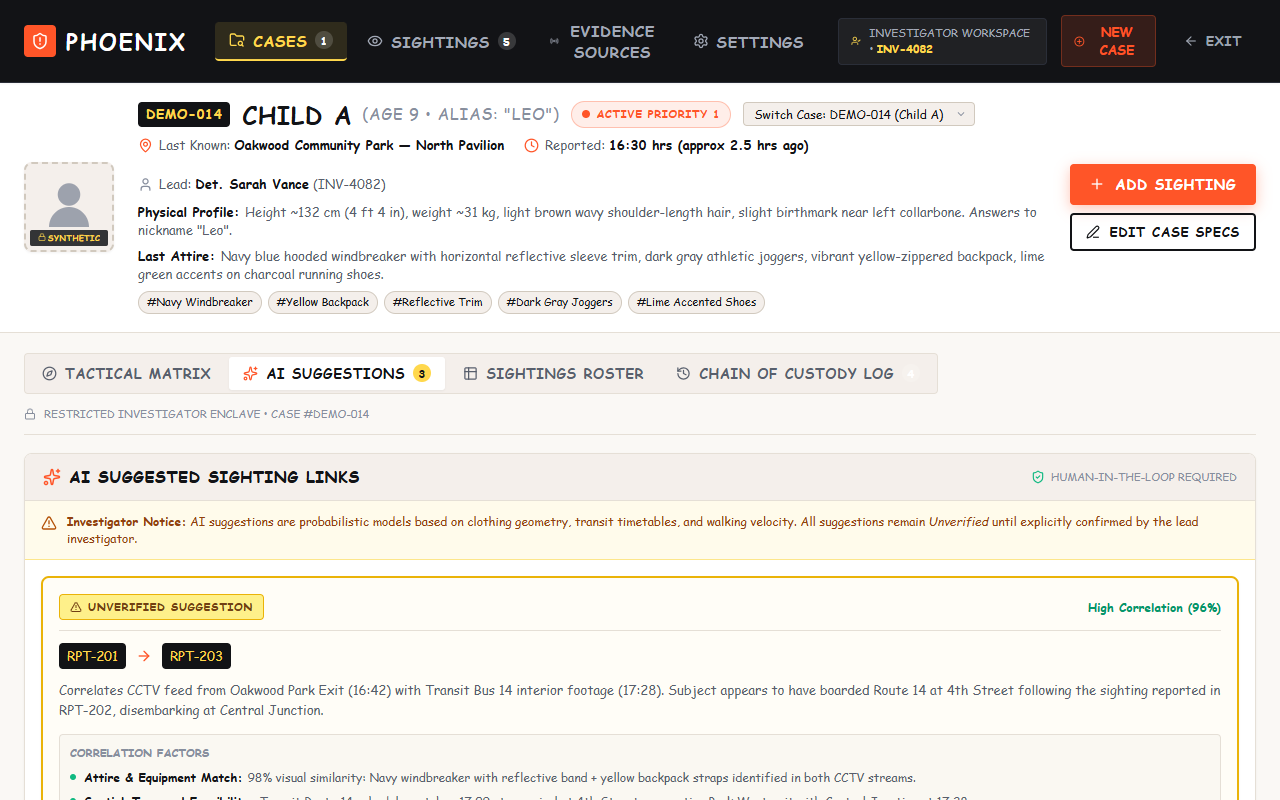
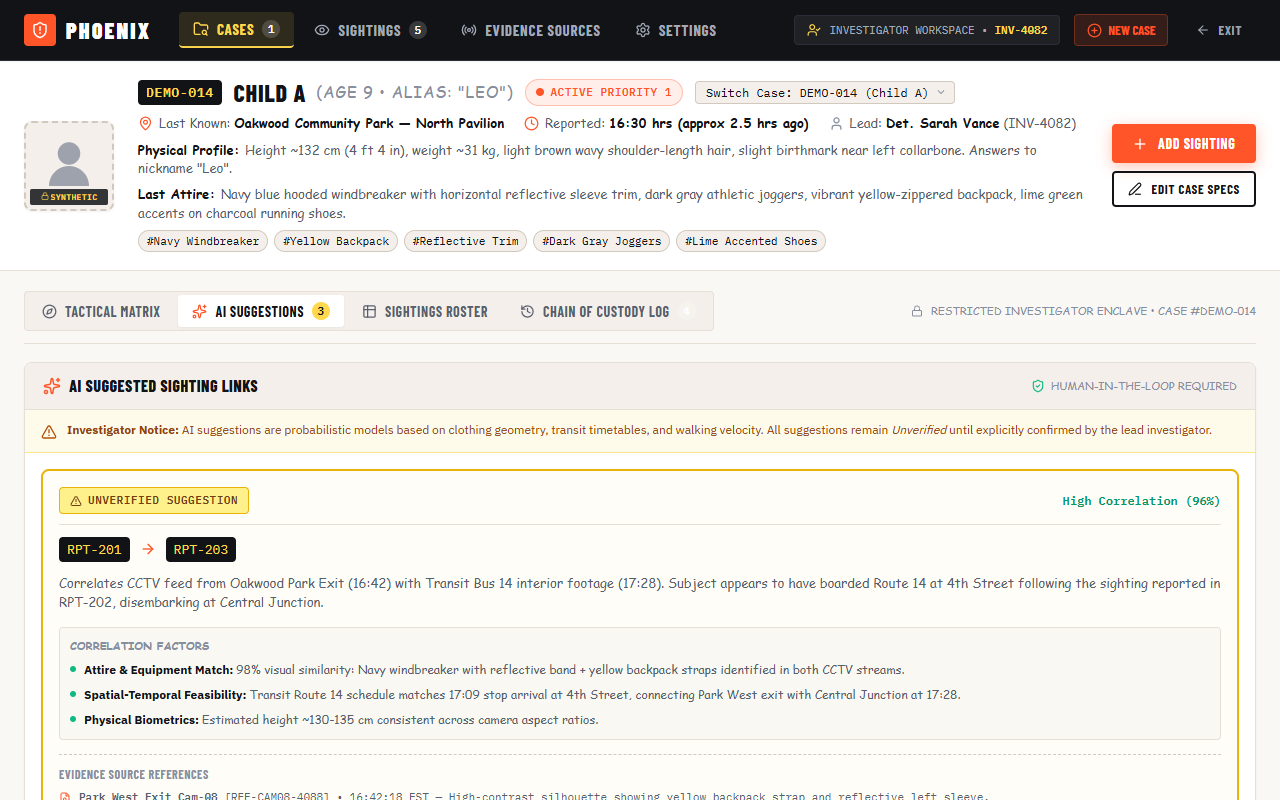
Style: scope Comic Sans exclusively to small light black secondary text; restore primary typography

Changed region(s): [[0.0, 0.0, 1.0, 1.0], [0.7188, 0.375, 0.9688, 0.4062], [0.8125, 0.4688, 0.9688, 0.5]]

diff --git a/src/index.css b/src/index.css
@@ -35,9 +35,10 @@
   --border-charcoal: #2A2E38;
 
   /* Typography */
-  --font-heading: 'Comic Sans MS', 'Comic Sans', cursive, sans-serif;
-  --font-body: 'Comic Sans MS', 'Comic Sans', cursive, sans-serif;
-  --font-mono: 'Comic Sans MS', 'Comic Sans', cursive, monospace;
+  --font-heading: 'Barlow Condensed', -apple-system, BlinkMacSystemFont, sans-serif;
+  --font-body: 'IBM Plex Sans', -apple-system, BlinkMacSystemFont, sans-serif;
+  --font-mono: 'IBM Plex Mono', monospace;
+  --font-comic: 'Comic Sans MS', 'Comic Sans', cursive, sans-serif;
 
   /* Elevation */
   --shadow-sm: 0 1px 2px rgba(18, 19, 22, 0.05);
@@ -111,6 +112,21 @@ h1, h2, h3, h4, .font-heading {
 
 .font-mono {
   font-family: var(--font-mono);
+}
+
+/* Comic Sans exclusively for small light black / secondary descriptive text */
+.landing-description,
+.spec-item-desc,
+.timeline-snippet,
+.ai-explanation,
+.factor-item div span,
+.case-descriptors-row,
+.descriptor-item span,
+.detail-drawer p,
+.font-comic,
+[style*="var(--text-secondary)"],
+[style*="var(--text-muted)"] {
+  font-family: var(--font-comic) !important;
 }
 
 /* ==========================================================================
